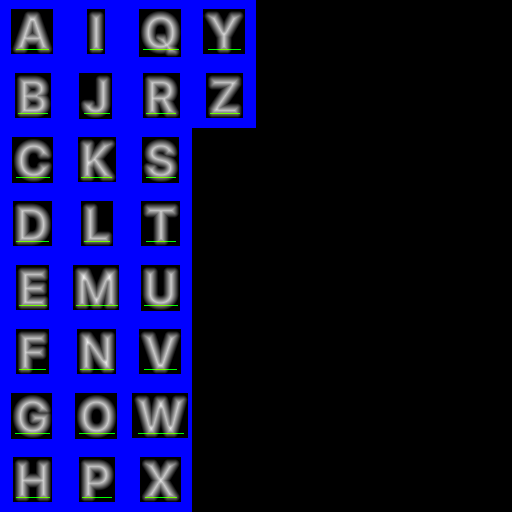
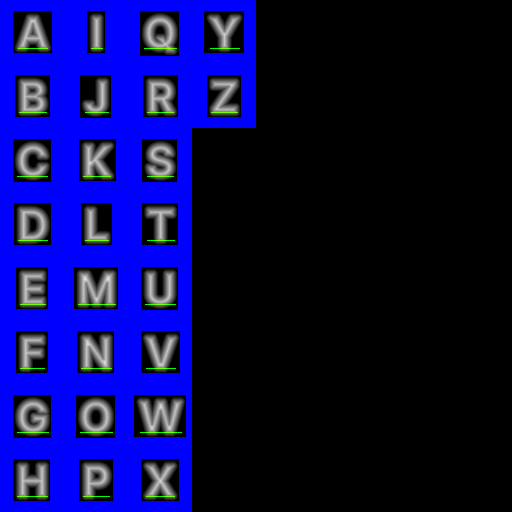
Draw dragged tiles better

diff --git a/src/ui/gl-render.ts b/src/ui/gl-render.ts
@@ -2,7 +2,7 @@ import { Dispatch } from "../core/action";
 import { getAssets } from "../core/assets";
 import { getBonusFromLayer } from "../core/bonus-helpers";
 import { getCachedSelection } from "../core/cache-state";
-import { Chunk, WORLD_CHUNK_SIZE, activeChunks, getChunk } from "../core/chunk";
+import { Chunk, WORLD_CHUNK_SIZE, activeChunks, getChunk, mkChunk } from "../core/chunk";
 import { GameState } from "../core/state";
 import { getTileId } from "../core/tile-helpers";
 import { DEBUG, doOnce, doOnceEvery, logger } from "../util/debug";
@@ -12,7 +12,7 @@ import { SE2, apply, compose, composen, inverse, scale, translate } from "../uti
 import { apply_to_rect } from "../util/se2-extra";
 import { Point } from "../util/types";
 import { rectPts } from "../util/util";
-import { vadd, vdiag, vinv, vm, vscale } from "../util/vutil";
+import { vadd, vdiag, vinv, vm, vscale, vsub } from "../util/vutil";
 import { gl_from_canvas } from "./gl-helpers";
 import { spriteLocOfBonus, spriteLocOfChunkValue } from "./sprite-sheet";
 import { resizeView } from "./ui-helpers";
@@ -30,7 +30,14 @@ const SPRITE_TEXTURE_UNIT = 0;
 const CHUNK_DATA_TEXTURE_UNIT = 1;
 const FONT_TEXTURE_UNIT = 2;
 
-function drawChunk(gl: WebGL2RenderingContext, env: GlEnv, p_in_chunk: Point, state: GameState, chunk_from_canvas: SE2): void {
+function drawChunk(
+  gl: WebGL2RenderingContext,
+  env: GlEnv,
+  p_in_chunk: Point,
+  state: GameState,
+  chunk_from_canvas: SE2,
+  world_from_canvas_SE2: SE2
+): void {
   const { prog, chunkBoundsBuffer, chunkImdat } = env;
 
   const chunk_rect_in_chunk = { p: p_in_chunk, sz: vdiag(1.) };
@@ -64,7 +71,6 @@ function drawChunk(gl: WebGL2RenderingContext, env: GlEnv, p_in_chunk: Point, st
   const u_canvasSize = gl.getUniformLocation(prog, 'u_canvasSize');
   gl.uniform2f(u_canvasSize, canvas_bds_in_canvas.sz.x, canvas_bds_in_canvas.sz.y);
 
-  const world_from_canvas_SE2 = inverse(pan_canvas_from_world_of_state(state));
   const s = world_from_canvas_SE2.scale;
   const t = world_from_canvas_SE2.translate;
 
@@ -142,7 +148,7 @@ function drawExternalChunk(gl: WebGL2RenderingContext, env: GlEnv, chunk: Chunk,
   const u_canvasSize = gl.getUniformLocation(prog, 'u_canvasSize');
   gl.uniform2f(u_canvasSize, canvas_bds_in_canvas.sz.x, canvas_bds_in_canvas.sz.y);
 
-  const world_from_canvas_SE2 = inverse(pan_canvas_from_world_of_state(state));
+  const world_from_canvas_SE2 = inverse(canvas_from_chunk_local);
   const s = world_from_canvas_SE2.scale;
   const t = world_from_canvas_SE2.translate;
 
@@ -176,6 +182,62 @@ function drawExternalChunk(gl: WebGL2RenderingContext, env: GlEnv, chunk: Chunk,
 
 }
 
+// XXX: Deprecate above
+function drawOneTile(gl: WebGL2RenderingContext, env: GlEnv, letter: string, state: GameState, canvas_from_chunk_local: SE2): void {
+  const { prog, chunkBoundsBuffer, chunkImdat } = env;
+
+  const chunk_rect_in_canvas = apply_to_rect(canvas_from_chunk_local, { p: vdiag(0), sz: { x: 1, y: 1 } });
+  const chunk_rect_in_gl = apply_to_rect(gl_from_canvas, chunk_rect_in_canvas);
+
+  const [p1, p2] = rectPts(chunk_rect_in_gl);
+  attributeSetFloats(gl, chunkBoundsBuffer, [
+    p1.x, p2.y, 0,
+    p2.x, p2.y, 0,
+    p1.x, p1.y, 0,
+    p2.x, p1.y, 0
+  ]);
+
+  const u_drawTile = gl.getUniformLocation(prog, 'u_drawTile');
+  gl.uniform1i(u_drawTile, 1);
+
+  const u_tileLetter = gl.getUniformLocation(prog, 'u_tileLetter');
+  gl.uniform1i(u_tileLetter, letter.charCodeAt(0) - 97);
+
+  // This doesn't seem relevant for an external chunk
+
+  // const u_chunk_origin_in_world = gl.getUniformLocation(prog, 'u_chunk_origin_in_world');
+  //gl.uniform2f(u_chunk_origin_in_world, p_in_chunk.x * WORLD_CHUNK_SIZE.x, p_in_chunk.y * WORLD_CHUNK_SIZE.y);
+
+  const u_spriteTexture = gl.getUniformLocation(prog, 'u_spriteTexture');
+  gl.uniform1i(u_spriteTexture, SPRITE_TEXTURE_UNIT);
+
+  const u_fontTexture = gl.getUniformLocation(prog, 'u_fontTexture');
+  gl.uniform1i(u_fontTexture, FONT_TEXTURE_UNIT);
+
+  const u_chunkDataTexture = gl.getUniformLocation(prog, 'u_chunkDataTexture');
+  gl.uniform1i(u_chunkDataTexture, CHUNK_DATA_TEXTURE_UNIT);
+
+  const u_canvasSize = gl.getUniformLocation(prog, 'u_canvasSize');
+  gl.uniform2f(u_canvasSize, canvas_bds_in_canvas.sz.x, canvas_bds_in_canvas.sz.y);
+
+  const world_from_canvas_SE2 = inverse(canvas_from_chunk_local);
+  const s = world_from_canvas_SE2.scale;
+  const t = world_from_canvas_SE2.translate;
+
+  const world_from_canvas = [
+    s.x, 0.0, 0.0,
+    0.0, s.y, 0.0,
+    t.x, t.y, 1.0,
+  ];
+  const u_world_from_canvas = gl.getUniformLocation(prog, "u_world_from_canvas");
+  gl.uniformMatrix3fv(u_world_from_canvas, false, world_from_canvas);
+
+  gl.viewport(0, 0, canvas_bds_in_canvas.sz.x, canvas_bds_in_canvas.sz.y);
+
+  gl.drawArrays(gl.TRIANGLE_STRIP, 0, 4);
+
+}
+
 const shouldDebug = { v: false };
 export function renderGlPane(ci: CanvasGlInfo, env: GlEnv, state: GameState): void {
   const { d: gl } = ci;
@@ -196,26 +258,37 @@ export function renderGlPane(ci: CanvasGlInfo, env: GlEnv, state: GameState): vo
     const chunk_from_canvas = compose(scale(vinv(WORLD_CHUNK_SIZE)), inverse(canvas_from_world));
     const chunks = activeChunks(canvas_from_world);
     chunks.forEach(p => {
-      drawChunk(gl, env, p, state, chunk_from_canvas);
+      drawChunk(gl, env, p, state, chunk_from_canvas, inverse(pan_canvas_from_world_of_state(state)));
     });
 
+
+    const cs = state.coreState;
     const ms = state.mouseState;
     // draw dragged tiles from selection
     if (ms.t == 'drag_tile') {
       const cachedSelection = getCachedSelection(state.coreState);
       if (cachedSelection) {
-        // big selection
-        const tile0 = getTileId(state.coreState, ms.id);
-        if (tile0.loc.t == 'world') {
-          const { chunk, selection_chunk_from_world: static_chunk_local_from_world } = cachedSelection;
-          const canvas_from_tile = canvas_from_drag_tile(state.coreState, state.mouseState);
-          const canvas_from_chunk_local = composen(
-            canvas_from_tile,                                // canvas_from_tile
-            translate(vscale(tile0.loc.p_in_world_int, -1)), // tile_from_world
-            inverse(static_chunk_local_from_world)           // world_from_chunk_local
-          );
-          drawExternalChunk(gl, env, chunk, state, canvas_from_chunk_local);
-        }
+
+        const tile0 = getTileId(cs, ms.id);
+        const tiles = cs.selected!.selectedIds.map(id => getTileId(cs, id));
+
+        // draw dragged tiles
+        tiles.forEach(tile => {
+          if (tile.loc.t == 'world' && tile0.loc.t == 'world') {
+            let drag_tile_from_other_tile = translate(vsub(tile.loc.p_in_world_int, tile0.loc.p_in_world_int));
+            if (ms.flipped) {
+              drag_tile_from_other_tile = {
+                scale: drag_tile_from_other_tile.scale, translate: {
+                  x: drag_tile_from_other_tile.translate.y,
+                  y: drag_tile_from_other_tile.translate.x,
+                }
+              };
+            }
+
+            const canvas_from_other_tile = compose(canvas_from_drag_tile(cs, ms), drag_tile_from_other_tile);
+            drawOneTile(gl, env, tile.letter, state, canvas_from_other_tile);
+          }
+        });
       }
       else {
         // single tile drag

diff --git a/precompute/precompute-font.c b/precompute/precompute-font.c
@@ -13,7 +13,7 @@
 #define PADDING 5
 #define ONEDGE 128
 
-#define PIXEL_HEIGHT 55
+#define PIXEL_HEIGHT 50
 
 void  splat_letter(const stbtt_fontinfo *font, float scale, int codepoint, int sprite_x, int sprite_y, int ascent, char *final) {
   int height;
